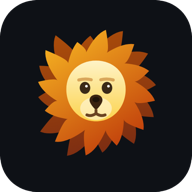
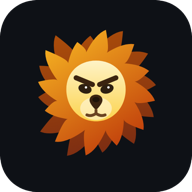
Fiercer lion: angled almond eyes + determined downward brow

Changed region(s): [[0.375, 0.375, 0.625, 0.5]]

diff --git a/public/sw.js b/public/sw.js
@@ -1,7 +1,7 @@
 // LeadLion service worker — caches the app shell for instant loads / offline.
 // Network-first for HTML/API so data stays fresh; cache-first for static assets.
 
-const CACHE = 'leadlion-v3';
+const CACHE = 'leadlion-v4';
 const SHELL = ['/app', '/app.html', '/app.js', '/styles.css', '/logo.svg', '/manifest.webmanifest'];
 
 self.addEventListener('install', (e) => {